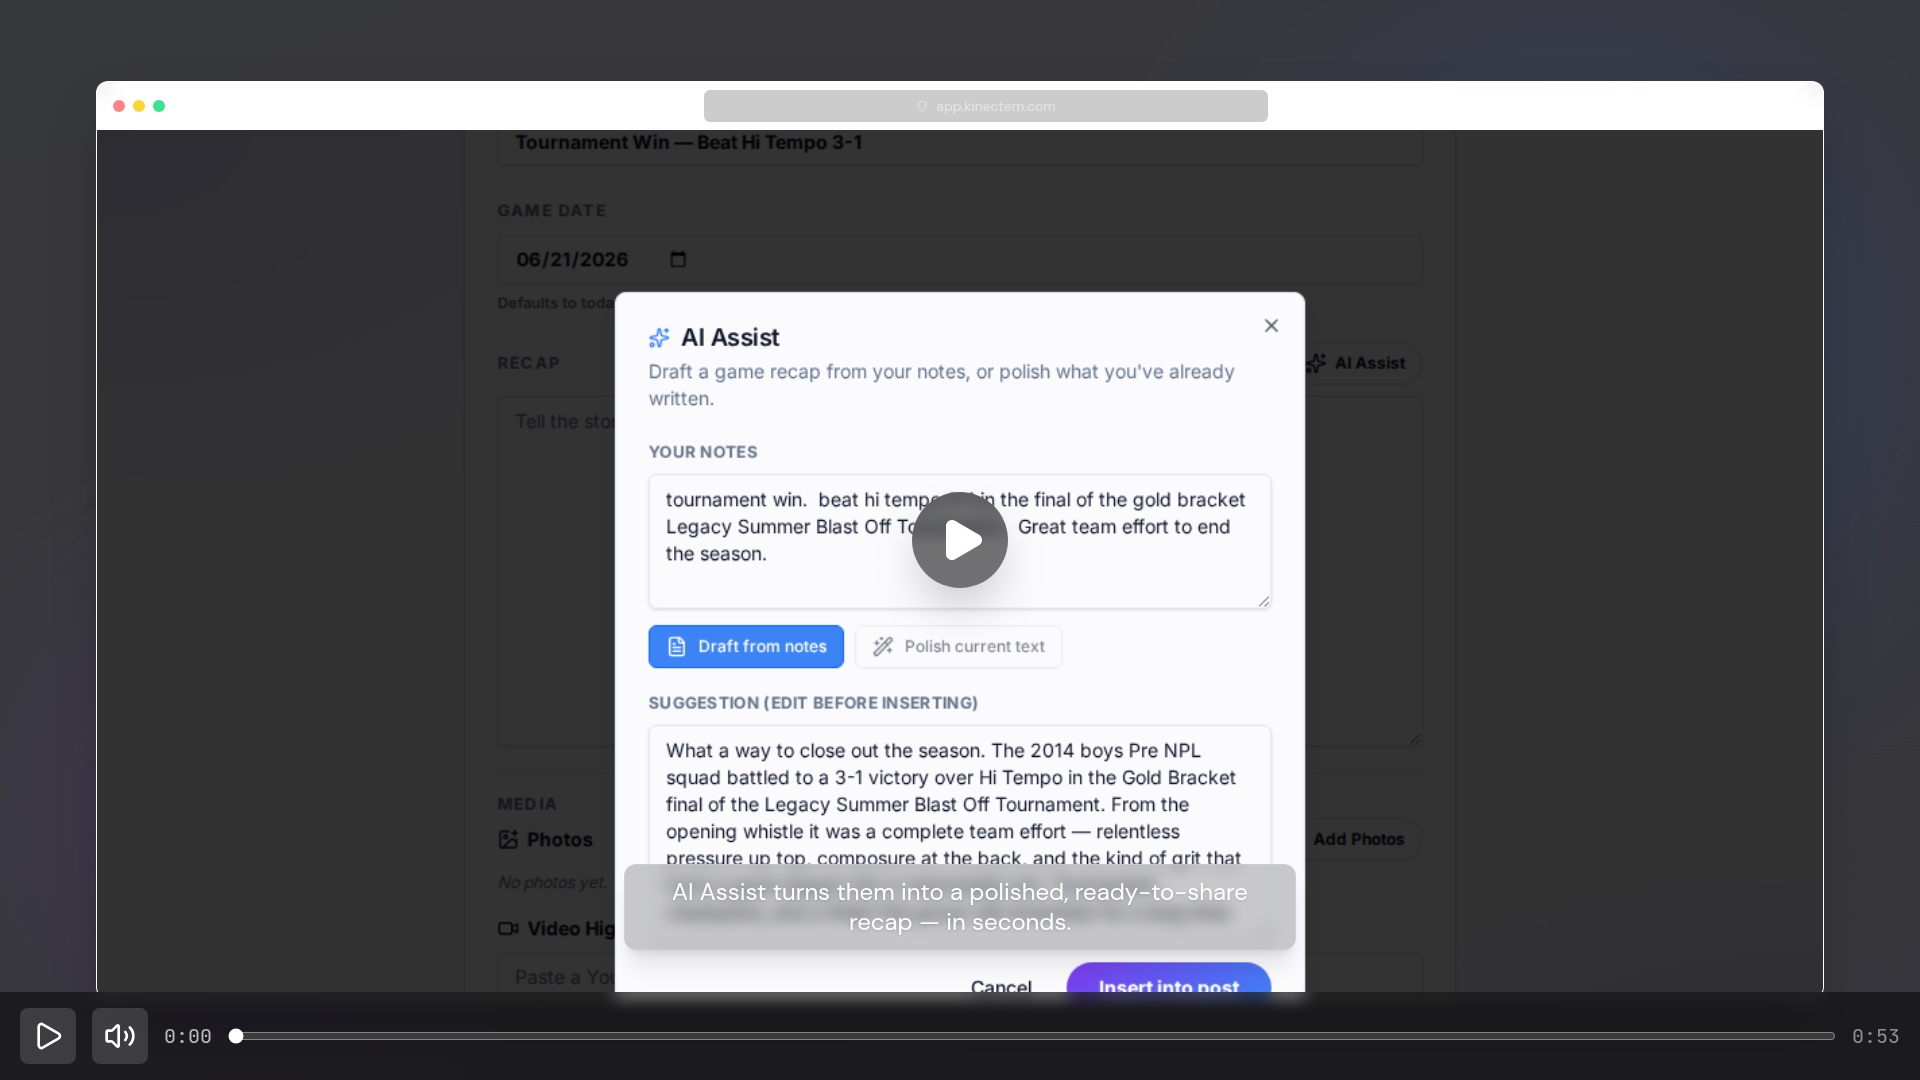
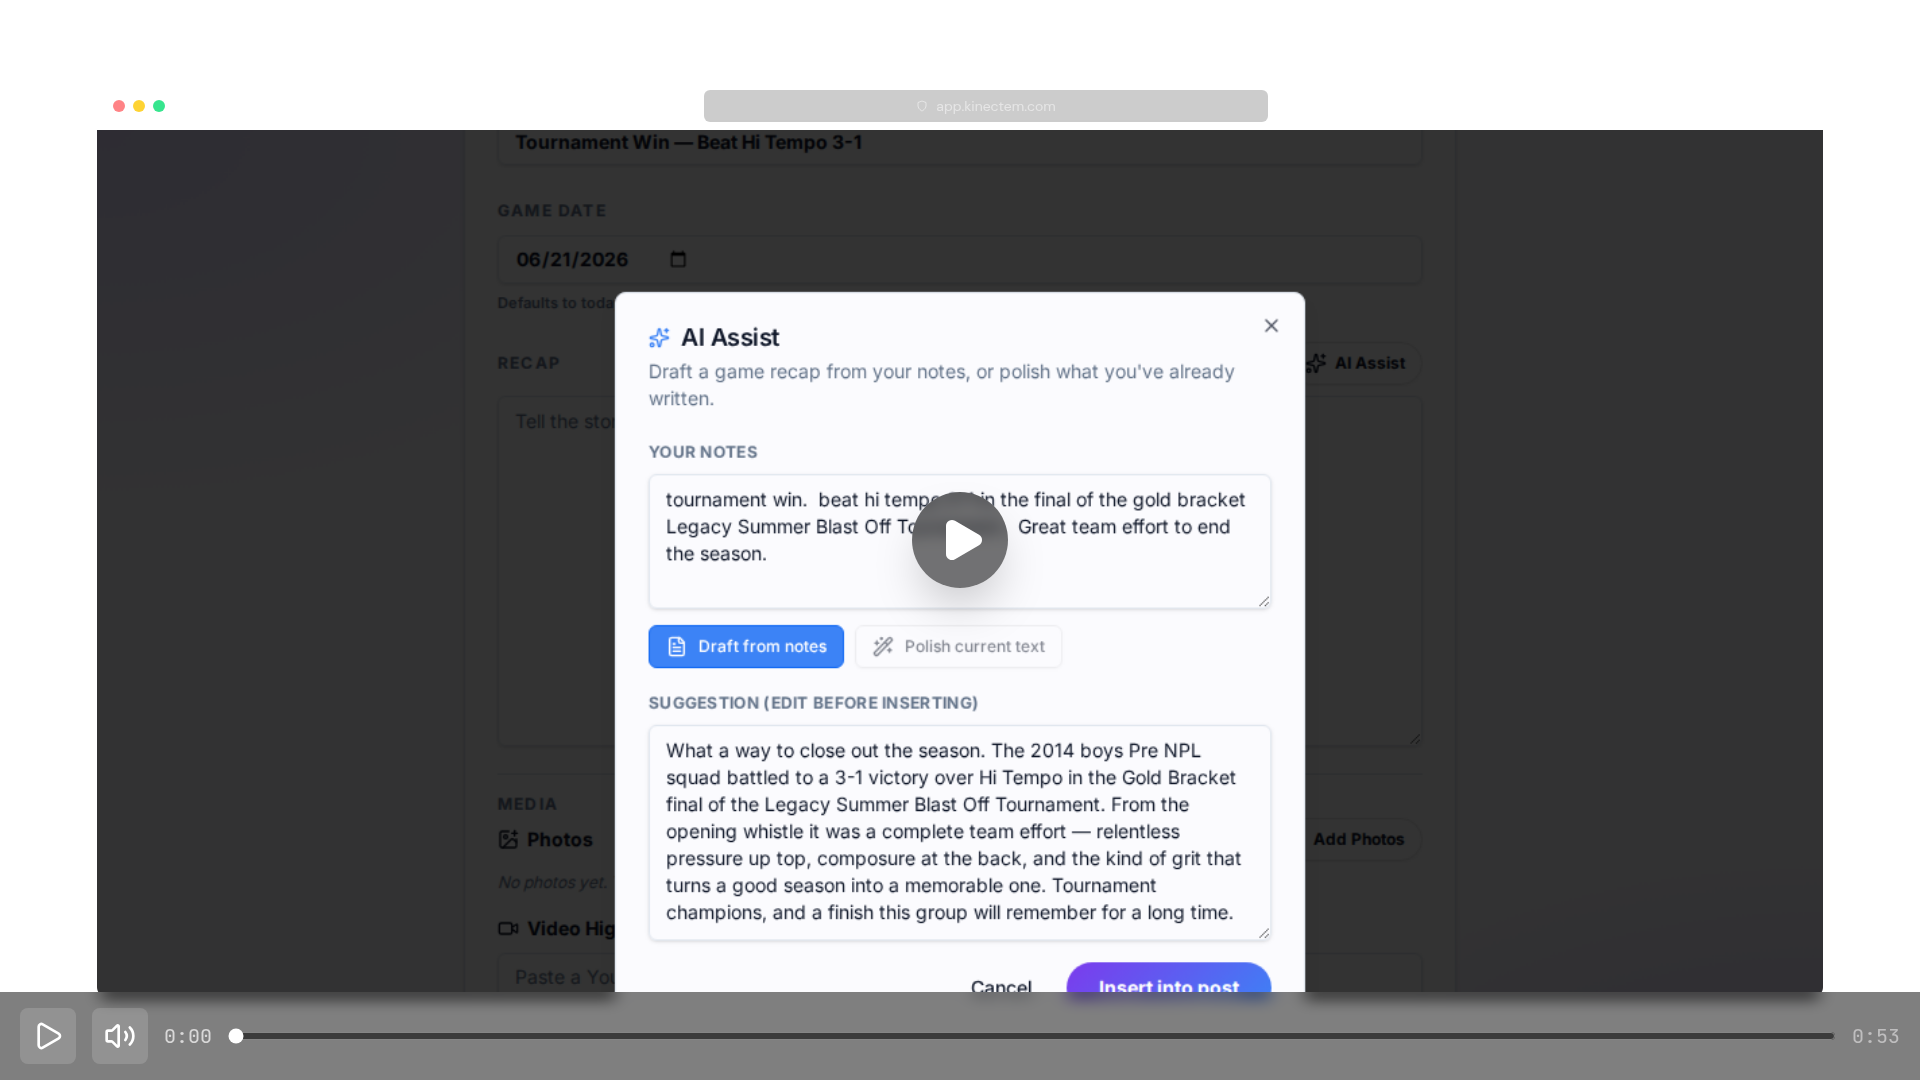
Update video player to show AI assist screen without captions
Modify VideoTemplate to conditionally hide captions and prevent audio seeking during poster state, ensuring a clean opening experience without voice-over blips.

Replit-Commit-Author: Agent
Replit-Commit-Session-Id: 2f55e28f-cf3b-40ba-b0e2-a0e13fda2ea5
Replit-Commit-Checkpoint-Type: full_checkpoint
Replit-Commit-Event-Id: e5d46eb4-fded-4e3d-bef7-076d6e8084c5
Replit-Commit-Screenshot-Url: https://storage.googleapis.com/screenshot-production-us-central1/59b3789f-cce8-49cf-88a3-887151719960/2f55e28f-cf3b-40ba-b0e2-a0e13fda2ea5/y5prFic
Replit-Helium-Checkpoint-Created: true

Changed region(s): [[0.0, 0.0, 1.0, 1.0], [0.3125, 0.7944, 0.6875, 0.8861]]

diff --git a/artifacts/ai-assist-walkthrough/src/components/video/VideoTemplate.tsx b/artifacts/ai-assist-walkthrough/src/components/video/VideoTemplate.tsx
@@ -55,10 +55,12 @@ export default function VideoTemplate({
   currentMs,
   playing,
   muted = false,
+  poster = false,
 }: {
   currentMs: number;
   playing: boolean;
   muted?: boolean;
+  poster?: boolean;
 }) {
   const { key, localMs } = sceneAt(currentMs);
   const SceneComponent = SCENE_COMPONENTS[key] ?? Scene1;
@@ -96,6 +98,10 @@ export default function VideoTemplate({
   useEffect(() => {
     const audio = audioRef.current;
     if (!audio) return;
+    // Poster (pre-play still): leave the audio untouched at 0 so the first play
+    // starts cleanly from the beginning — never park it at the poster frame's
+    // timestamp, which would leak a split-second of that voice-over on play.
+    if (poster) return;
     const prev = lastMsRef.current;
     lastMsRef.current = currentMs;
     const target = currentMs / 1000;
@@ -104,7 +110,7 @@ export default function VideoTemplate({
     } else if (Math.abs(currentMs - prev) > AUDIO_RESYNC_JUMP_MS) {
       audio.currentTime = target;
     }
-  }, [currentMs, playing]);
+  }, [currentMs, playing, poster]);
 
   return (
     <div className="relative w-full h-screen overflow-hidden bg-[#09090B] flex items-center justify-center">
@@ -129,7 +135,7 @@ export default function VideoTemplate({
       <div className="relative w-[90vw] h-[85vh] bg-white rounded-xl shadow-2xl overflow-hidden z-10 border border-white/20">
         <BrowserChrome />
 
-        <div className="absolute inset-x-0 top-12 bottom-0 overflow-hidden bg-[#F4F4F5]">
+        <div className={`absolute inset-x-0 top-12 bottom-0 overflow-hidden bg-[#F4F4F5]${poster ? ' hide-captions' : ''}`}>
           <SceneComponent key={key} t={localMs} />
         </div>
       </div>

diff --git a/artifacts/ai-assist-walkthrough/src/index.css b/artifacts/ai-assist-walkthrough/src/index.css
@@ -48,3 +48,8 @@ body {
   -webkit-font-smoothing: antialiased;
   -moz-osx-font-smoothing: grayscale;
 }
+
+/* Hide caption boxes on the pre-play poster frame. */
+.hide-captions .walkthrough-caption {
+  display: none;
+}

diff --git a/artifacts/ai-assist-walkthrough/src/components/video/VideoWithControls.tsx b/artifacts/ai-assist-walkthrough/src/components/video/VideoWithControls.tsx
@@ -107,7 +107,7 @@ function InteractivePlayer() {
 
   return (
     <div className="relative w-full h-screen">
-      <VideoTemplate currentMs={displayMs} playing={playing} muted={muted} />
+      <VideoTemplate currentMs={displayMs} playing={playing} muted={muted} poster={!hasStarted} />
 
       {/* Click anywhere on the frame toggles play/pause. */}
       <button

diff --git a/artifacts/ai-assist-walkthrough/src/components/video/components/Chrome.tsx b/artifacts/ai-assist-walkthrough/src/components/video/components/Chrome.tsx
@@ -1,7 +1,7 @@
 export function Caption({ text, opacity = 1 }: { text: string; opacity?: number }) {
   return (
     <div
-      className="absolute bottom-12 left-0 right-0 z-50 flex justify-center px-12 pointer-events-none"
+      className="walkthrough-caption absolute bottom-12 left-0 right-0 z-50 flex justify-center px-12 pointer-events-none"
       style={{ opacity, transform: `translateY(${(1 - opacity) * 16}px)` }}
     >
       <div className="bg-black/20 backdrop-blur-sm px-6 py-3 rounded-xl border border-white/10 shadow-xl max-w-2xl text-center">